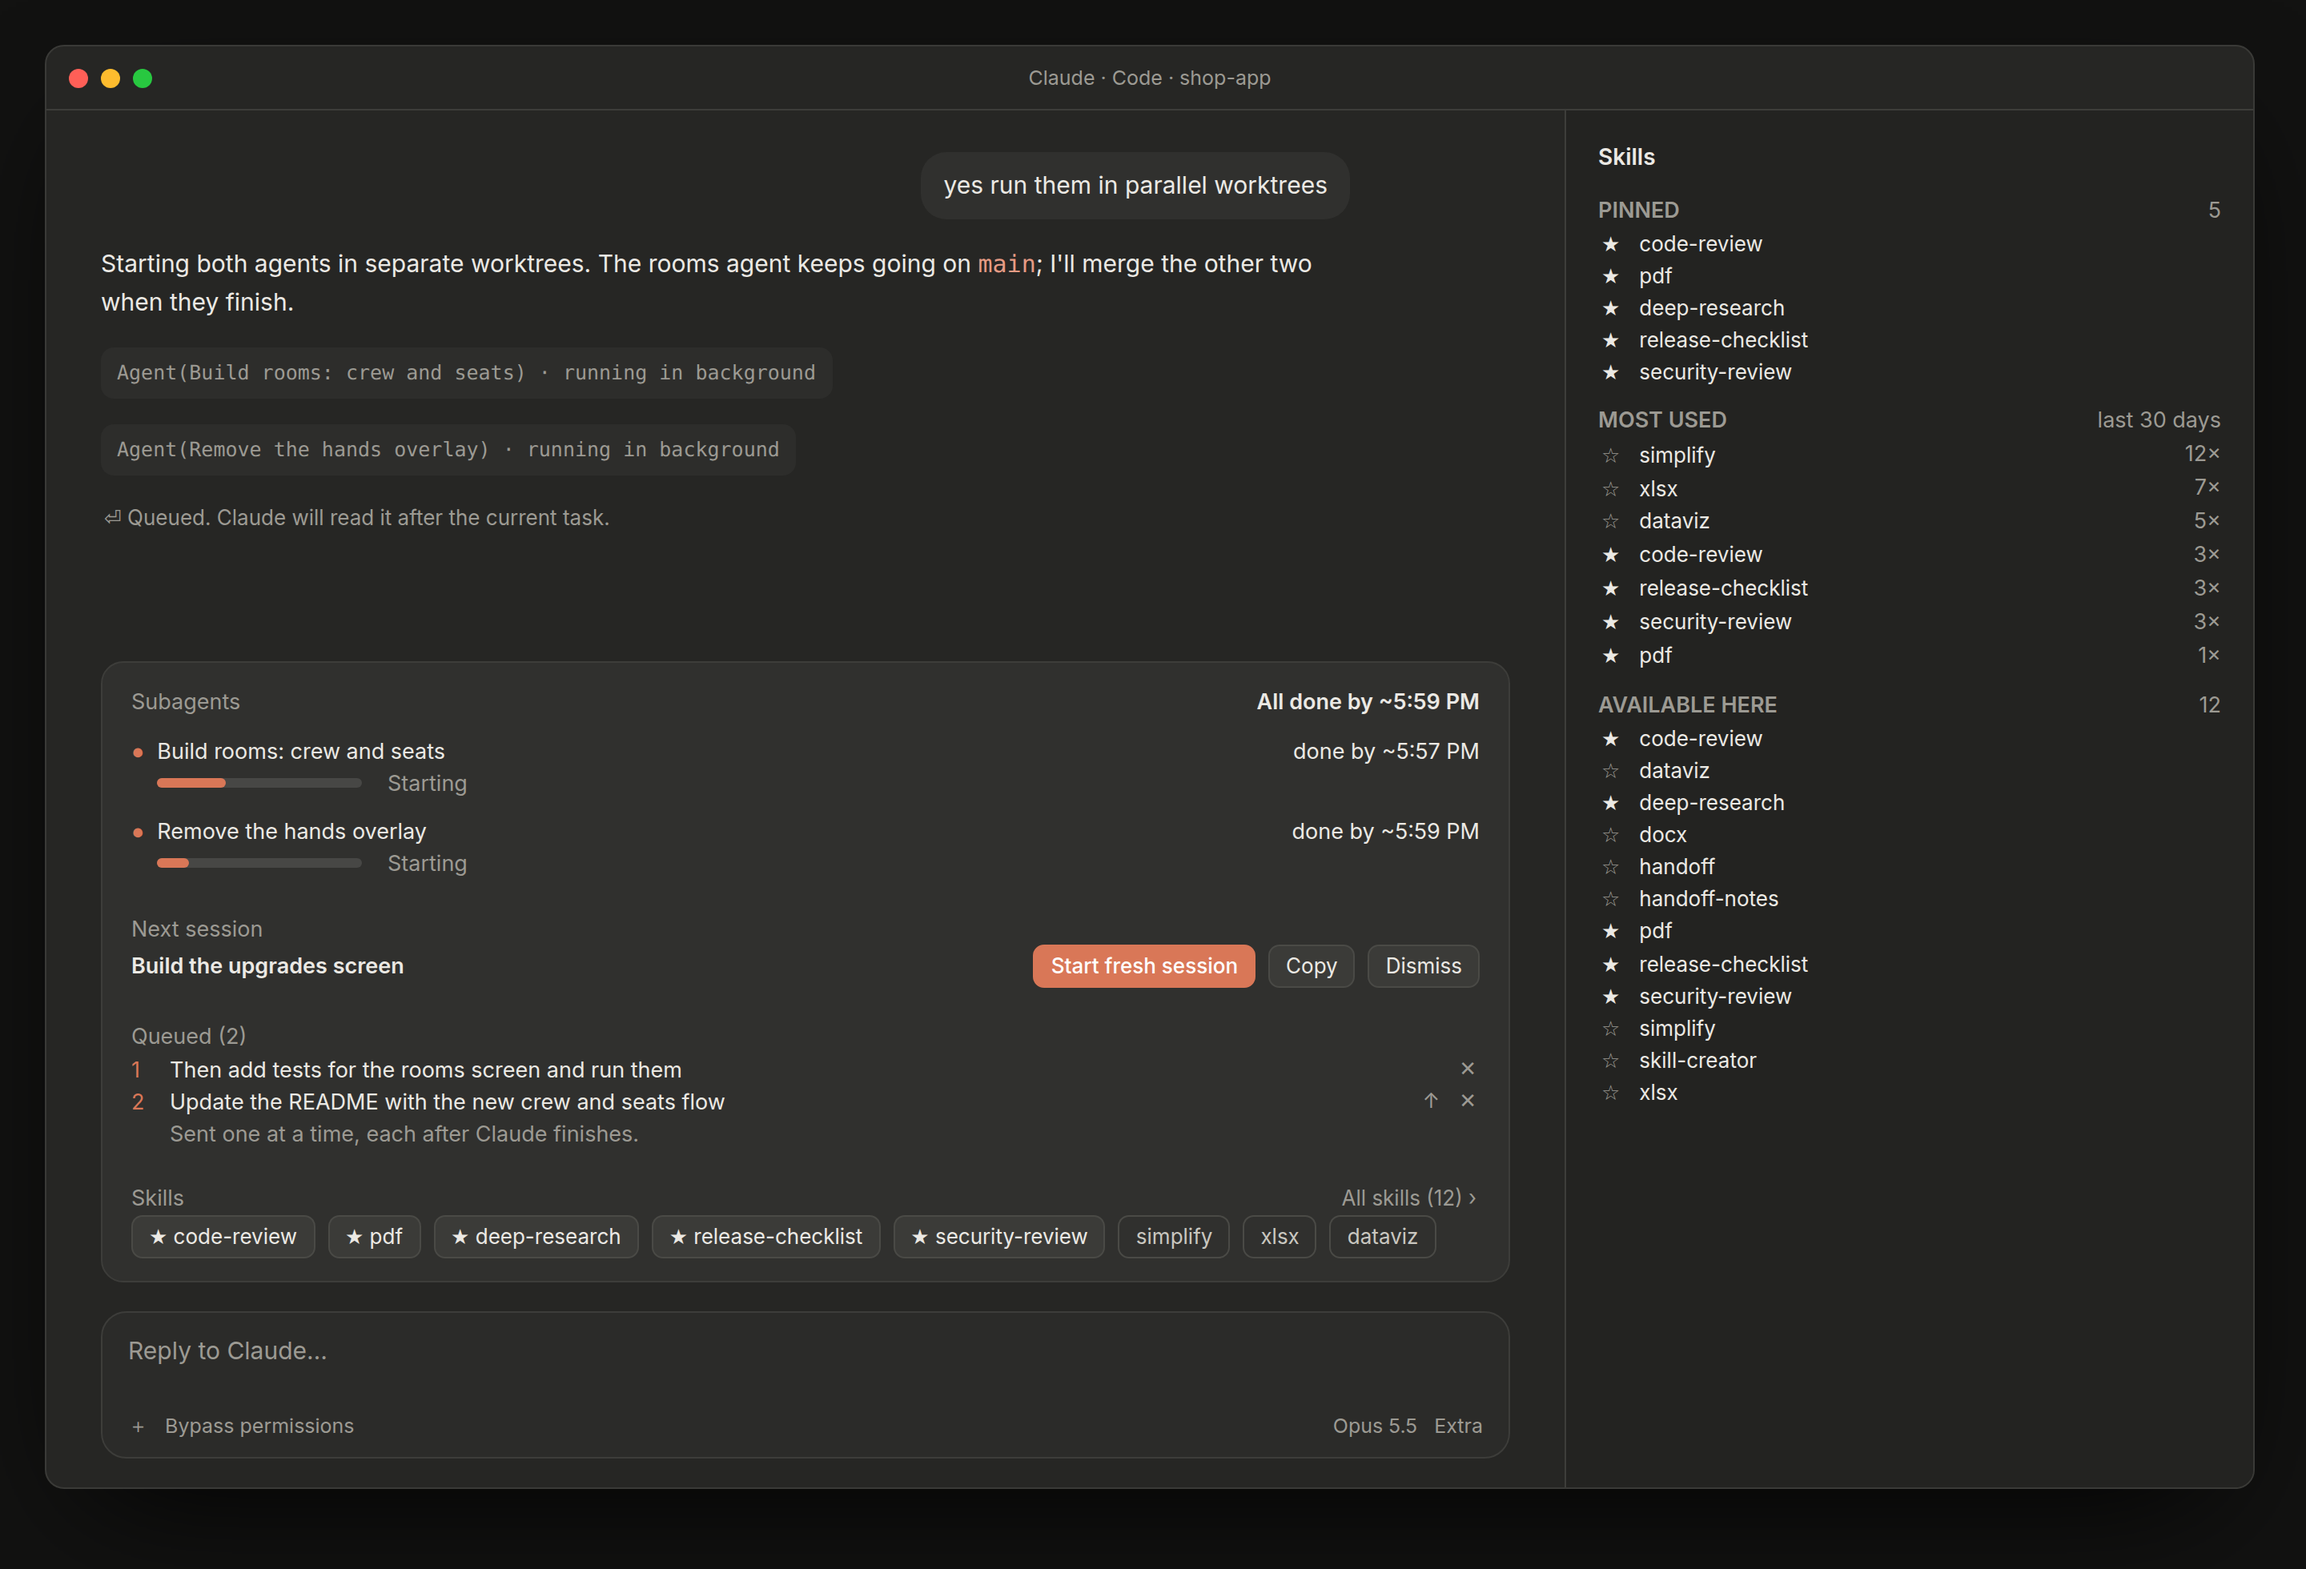
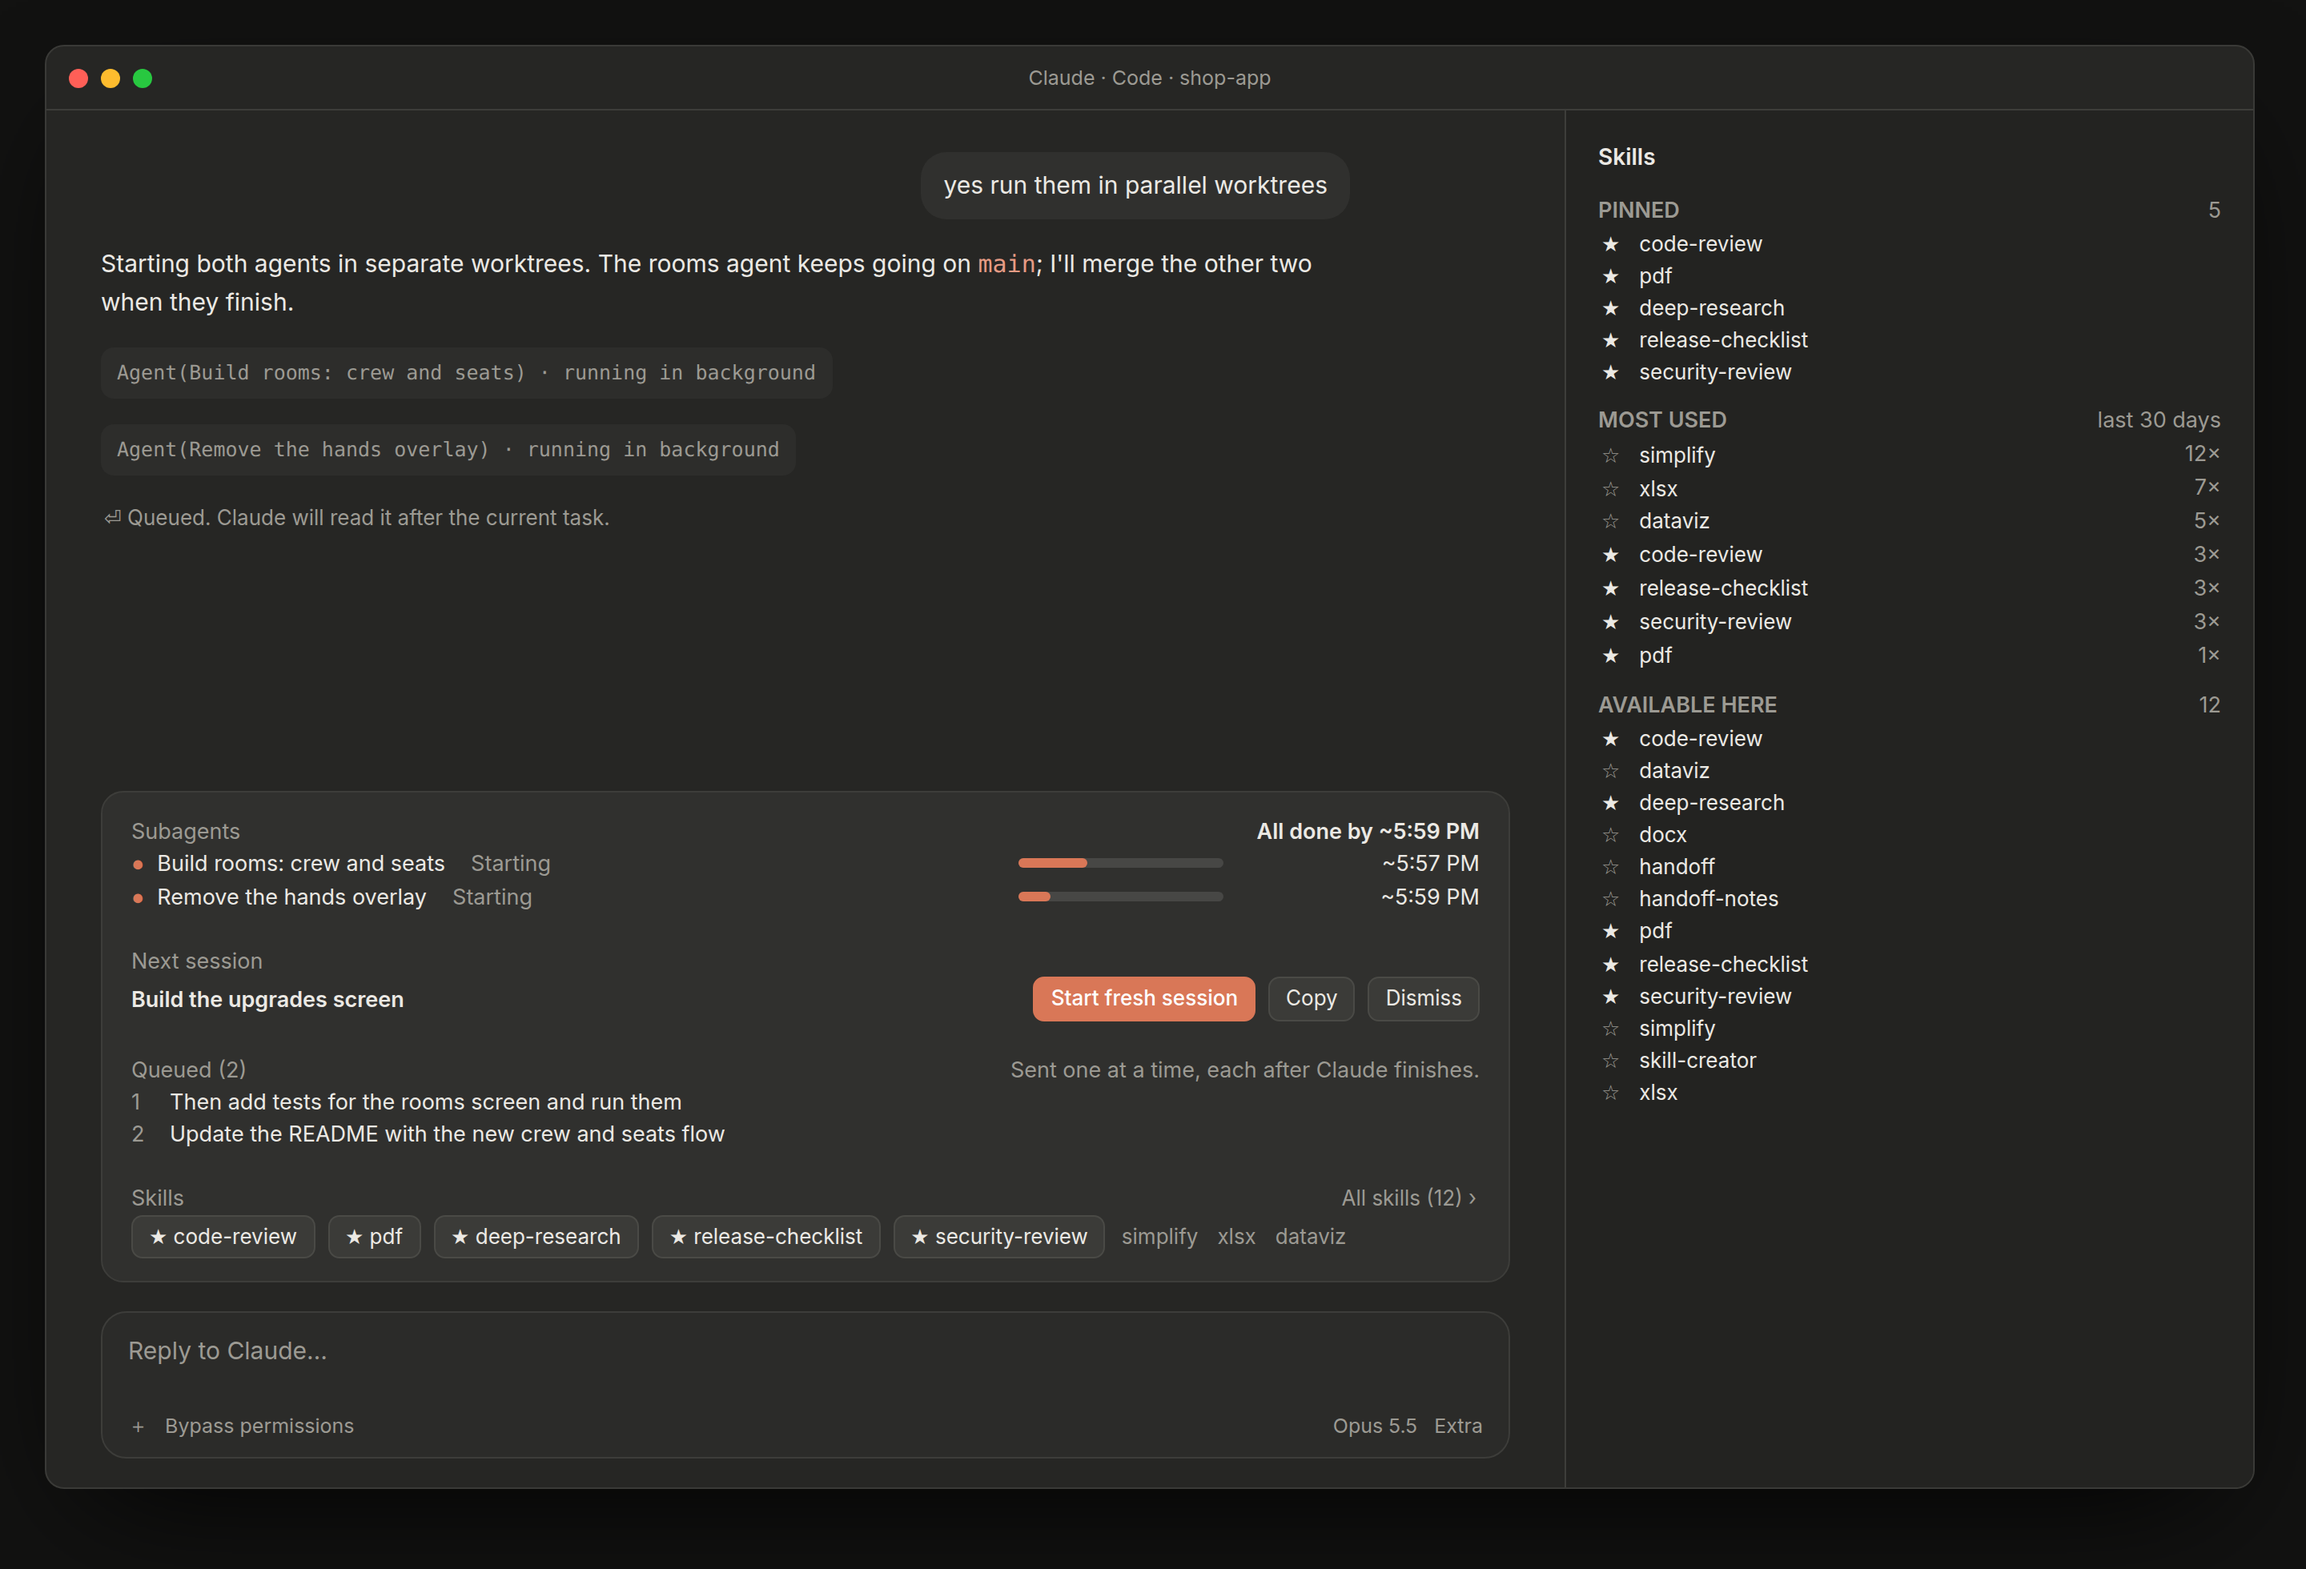
Calmer desktop band: one line per subagent, quieter queue and dock
- Subagents: each agent is one line, its bar and time in aligned columns; the
  header alone says when all are done.
- Queue: a row's move and remove controls show on hover; numbers are grey and the
  status sits beside the section's name.
- Skills: only pins are chips; frequently used skills are plain text.
- The accent marks only running work, progress and the main action.
The terminal layout is unchanged.

Claude-Session: https://claude.ai/code/session_012eN2KHMNqrLh8NXyWFk7QW

diff --git a/message-queue/hooks/register.tsx b/message-queue/hooks/register.tsx
@@ -169,40 +169,44 @@ function section(
   )
 }
 
-function messageRow($: EngineInterface, t: ElementTable, m: QueuedMessage, index: number) {
+function messageRow(
+  $: EngineInterface,
+  t: ElementTable,
+  m: QueuedMessage,
+  index: number,
+  isText: boolean,
+) {
   const { Box, Text, Button } = t
+  // Where there's a pointer, a row's controls show only while it's hovered.
+  const reveal = isText ? {} : { display: 'none' as const, hover: { display: 'flex' as const } }
 
   return (
-    <Box flexDirection="row" gap={1} alignItems="center">
+    <Box key={`queue-row-${m.id}`} flexDirection="row" gap={1} alignItems="center">
       <Box width={INDEX_WIDTH} flexShrink={0}>
-        <Text color={ACCENT}>{`${index + 1}`}</Text>
+        <Text color={isText ? ACCENT : undefined} dimColor={!isText}>{`${index + 1}`}</Text>
       </Box>
       <Box flexGrow={1} flexShrink={1} minWidth={0}>
         <Text wrap="truncate-end">{firstLine(m.text)}</Text>
       </Box>
-      <Box
-        flexDirection="row"
-        gap={1}
-        width={CONTROLS_WIDTH}
-        flexShrink={0}
-        justifyContent="flex-end"
-      >
-        {index > 0 && (
+      <Box width={CONTROLS_WIDTH} flexShrink={0} justifyContent="flex-end">
+        <Box flexDirection="row" gap={1} {...reveal}>
+          {index > 0 && (
+            <Button
+              key={`queue-up-${m.id}`}
+              plain
+              dimColor
+              label="↑"
+              onPress={() => moveUp($, m.id)}
+            />
+          )}
           <Button
-            key={`queue-up-${m.id}`}
+            key={`queue-remove-${m.id}`}
             plain
             dimColor
-            label="↑"
-            onPress={() => moveUp($, m.id)}
+            label="✕"
+            onPress={() => removeWhere($, x => x.id === m.id)}
           />
-        )}
-        <Button
-          key={`queue-remove-${m.id}`}
-          plain
-          dimColor
-          label="✕"
-          onPress={() => removeWhere($, x => x.id === m.id)}
-        />
+        </Box>
       </Box>
     </Box>
   )
@@ -322,8 +326,24 @@ export const register: Register = (on, options) => {
     const t = $.ui.resolve(e)
     const { Box, Text, Button } = t
     const isText = e.surface === 'terminal'
+    const isStacked = !isText || e.props.bodyColumns < NARROW_COLUMNS
     // The terminal takes no clicks outside fullscreen: say how to reach the buttons.
     const hasHint = isText && e.viewport?.isFullscreen !== true && !hasKey(above, HINT_KEY)
+    const status = (
+      <Box flexDirection="row" gap={2} alignItems="center" flexShrink={0}>
+        <Text dimColor>{paused ? PAUSED_NOTE : WAITING_NOTE}</Text>
+        {paused && (
+          <Button
+            key="queue-send"
+            plain={isText || undefined}
+            variant="primary"
+            hotkey="n"
+            label="Send next"
+            onPress={() => sendNext($)}
+          />
+        )}
+      </Box>
+    )
 
     return (
       <Box flexDirection="column">
@@ -332,23 +352,12 @@ export const register: Register = (on, options) => {
           {section(
             t,
             `Queued (${list.length})`,
+            // Stacked, the status sits beside the section's name; otherwise under the messages.
             <Box flexDirection="column">
-              {list.map((m, index) => messageRow($, t, m, index))}
-              <Box flexDirection="row" gap={2} alignItems="center" paddingLeft={INDEX_WIDTH + 1}>
-                <Text dimColor>{paused ? PAUSED_NOTE : WAITING_NOTE}</Text>
-                {paused && (
-                  <Button
-                    key="queue-send"
-                    plain={isText || undefined}
-                    variant="primary"
-                    hotkey="n"
-                    label="Send next"
-                    onPress={() => sendNext($)}
-                  />
-                )}
-              </Box>
+              {list.map((m, index) => messageRow($, t, m, index, isText))}
+              {!isStacked && <Box paddingLeft={INDEX_WIDTH + 1}>{status}</Box>}
             </Box>,
-            { isStacked: !isText || e.props.bodyColumns < NARROW_COLUMNS, hasHint },
+            { isStacked, hasHint, ...(isStacked ? { aside: status } : {}) },
           )}
         </Box>
       </Box>

diff --git a/session-hud/hooks/register.tsx b/session-hud/hooks/register.tsx
@@ -30,7 +30,9 @@ const LINGER_MS = 8000
 const MAX_AGENT_ROWS = 12
 /** Rows the band spends on things other than agent rows, and the rows each agent takes. */
 const BAND_CHROME_ROWS = 3
-const ROWS_PER_AGENT = 2
+const ROWS_PER_AGENT = { terminal: 2, graphical: 1 }
+/** Cells for the time at the end of a desktop row, so the bars and times line up. */
+const TIME_COLUMN = 18
 /** Check running rows against the engine's agent list this often, in ticks. */
 const RECONCILE_EVERY_TICKS = 10
 
@@ -562,17 +564,63 @@ function meter(t: ElementTable, key: string, fraction: number, label: string, st
   )
 }
 
+/** One line on graphical surfaces: the task and what it's doing, then its bar and time in columns. */
+function agentLine(t: ElementTable, run: AgentRun, at: number, style: Style) {
+  const { Box, Text } = t
+  const { elapsed, progress, remaining } = estimate(run, at)
+  const look = STATUS_LOOK[run.status]
+  const isRunning = run.status === 'running'
+  const time = !isRunning
+    ? `${look.verb} ${duration(elapsed)}`
+    : run.isSizing
+      ? 'estimating…'
+      : `~${clockTime(at + remaining)}`
+
+  return (
+    <Box flexDirection="row" alignItems="center" gap={2}>
+      <Box flexDirection="row" gap={1} flexGrow={1} flexShrink={1} minWidth={0}>
+        <Text color={look.tone}>{look.glyph}</Text>
+        <Box flexShrink={1} minWidth={0}>
+          <Text wrap="truncate-end" dimColor={!isRunning}>
+            {run.description}
+          </Text>
+        </Box>
+        {/* What it's doing gives way first when the row runs short. */}
+        {isRunning && (
+          <Box flexShrink={4} minWidth={0} paddingLeft={1}>
+            <Text dimColor wrap="truncate-end">
+              {run.activity}
+            </Text>
+          </Box>
+        )}
+      </Box>
+      {isRunning &&
+        meter(
+          t,
+          `bar-${run.toolUseId}`,
+          progress,
+          `about ${Math.round(progress * 100)}% done`,
+          style,
+        )}
+      <Box width={TIME_COLUMN} flexShrink={0} justifyContent="flex-end">
+        <Text dimColor={!isRunning || run.isSizing}>{time}</Text>
+      </Box>
+    </Box>
+  )
+}
+
 function agentRow(t: ElementTable, run: AgentRun, at: number, style: Style) {
+  if (!style.isText) return agentLine(t, run, at, style)
+
   const { Box, Text } = t
   const { elapsed, progress, remaining } = estimate(run, at)
   const look = STATUS_LOOK[run.status]
   const isRunning = run.status === 'running'
   // Braille spinners read as stray dots in a proportional font, so only the terminal spins.
-  const glyph =
-    isRunning && style.isText ? SPINNER[Math.floor(at / TICK_MS) % SPINNER.length] : look.glyph
+  const glyph = isRunning ? SPINNER[Math.floor(at / TICK_MS) % SPINNER.length] : look.glyph
 
   return (
-    <Box flexDirection="column" marginTop={style.isText ? 0 : 1}>
+    <Box flexDirection="column">
       <Box flexDirection="row" justifyContent="space-between" gap={2}>
         <Box flexDirection="row" gap={1} flexShrink={1} minWidth={0}>
           <Text color={look.tone}>{glyph}</Text>
@@ -622,7 +670,8 @@ function subagentsSection(
   const left = Math.max(0, ...sized.map(run => estimate(run, at).remaining))
   const isRunning = shown.some(run => run.status === 'running')
   const isEstimating = shown.some(run => run.status === 'running' && run.isSizing)
-  const fit = Math.max(1, Math.floor((maxRows - BAND_CHROME_ROWS) / ROWS_PER_AGENT))
+  const rowsPerAgent = style.isText ? ROWS_PER_AGENT.terminal : ROWS_PER_AGENT.graphical
+  const fit = Math.max(1, Math.floor((maxRows - BAND_CHROME_ROWS) / rowsPerAgent))
 
   // The header waits for every running task's size, so it doesn't jump as answers arrive.
   const summary = isEstimating ? (

diff --git a/session-hud/tests/hud.test.tsx b/session-hud/tests/hud.test.tsx
@@ -117,7 +117,9 @@ test('a running subagent shows its task, then finishes', async ($, on) => {
     const view = await $.ui.mount({ ...band(), surface })
     expect(await view.find({ type: 'Text', text: 'Subagents' })).toBeDefined()
     expect(await view.find({ type: 'Text', text: /^All done by ~/ })).toBeDefined()
-    expect(await view.find({ type: 'Text', text: /^done by ~/ })).toBeDefined()
+    // The terminal says when each row will be done; the desktop lines the times up in a column.
+    const rowTime = surface === 'terminal' ? /^done by ~/ : /^~\d/
+    expect(await view.find({ type: 'Text', text: rowTime })).toBeDefined()
     expect(await view.find({ type: 'Text', text: /Find auth handlers/ })).toBeDefined()
     // A progress bar: rounded SVG on the desktop, a run of blocks in the terminal.
     if (surface === 'desktop') expect(await view.find({ type: 'Svg' })).toBeDefined()
@@ -310,7 +312,7 @@ test('Claude sizes each task; the row says estimating until it answers', async (
   answer()
   await new Promise(resolve => setTimeout(resolve, 20))
   expect(
-    await ui.find({ type: 'Text', text: `done by ~${clockTime(NOW + 600_000)}` }),
+    await ui.find({ type: 'Text', text: new RegExp(`^~${clockTime(NOW + 600_000)}$`) }),
   ).toBeDefined()
   expect(
     await ui.find({ type: 'Text', text: `All done by ~${clockTime(NOW + 600_000)}` }),
@@ -333,7 +335,7 @@ test('when sizing fails, the estimate from past runs shows', async ($, on) => {
   await $.agent.spawn(spawnArgs('p'))
   await new Promise(resolve => setTimeout(resolve, 20))
   const ui = await $.ui.mount({ ...band(), surface: 'desktop' })
-  expect(await ui.find({ type: 'Text', text: /^done by ~/ })).toBeDefined()
+  expect(await ui.find({ type: 'Text', text: /^~\d/ })).toBeDefined()
   expect(await ui.find({ type: 'Text', text: 'estimating…' })).toBeUndefined()
   await ui.unmount()
 })

diff --git a/skill-dock/hooks/register.tsx b/skill-dock/hooks/register.tsx
@@ -384,7 +384,8 @@ function chipRow($: EngineInterface, t: ElementTable, chips: Chip[], isText: boo
       <Button
         key={`dock-${chip.isPinned ? 'pin' : 'freq'}-${chip.name}`}
         // In the terminal, chips are plain text spaced apart; brackets around each read as noise.
-        plain={isText || undefined}
+        // On the desktop only pins are chips, so they read apart from the skills used often.
+        plain={isText || !chip.isPinned || undefined}
         dimColor={!chip.isPinned}
         label={chip.label}
         onPress={() => insertSkill($, chip.name)}
